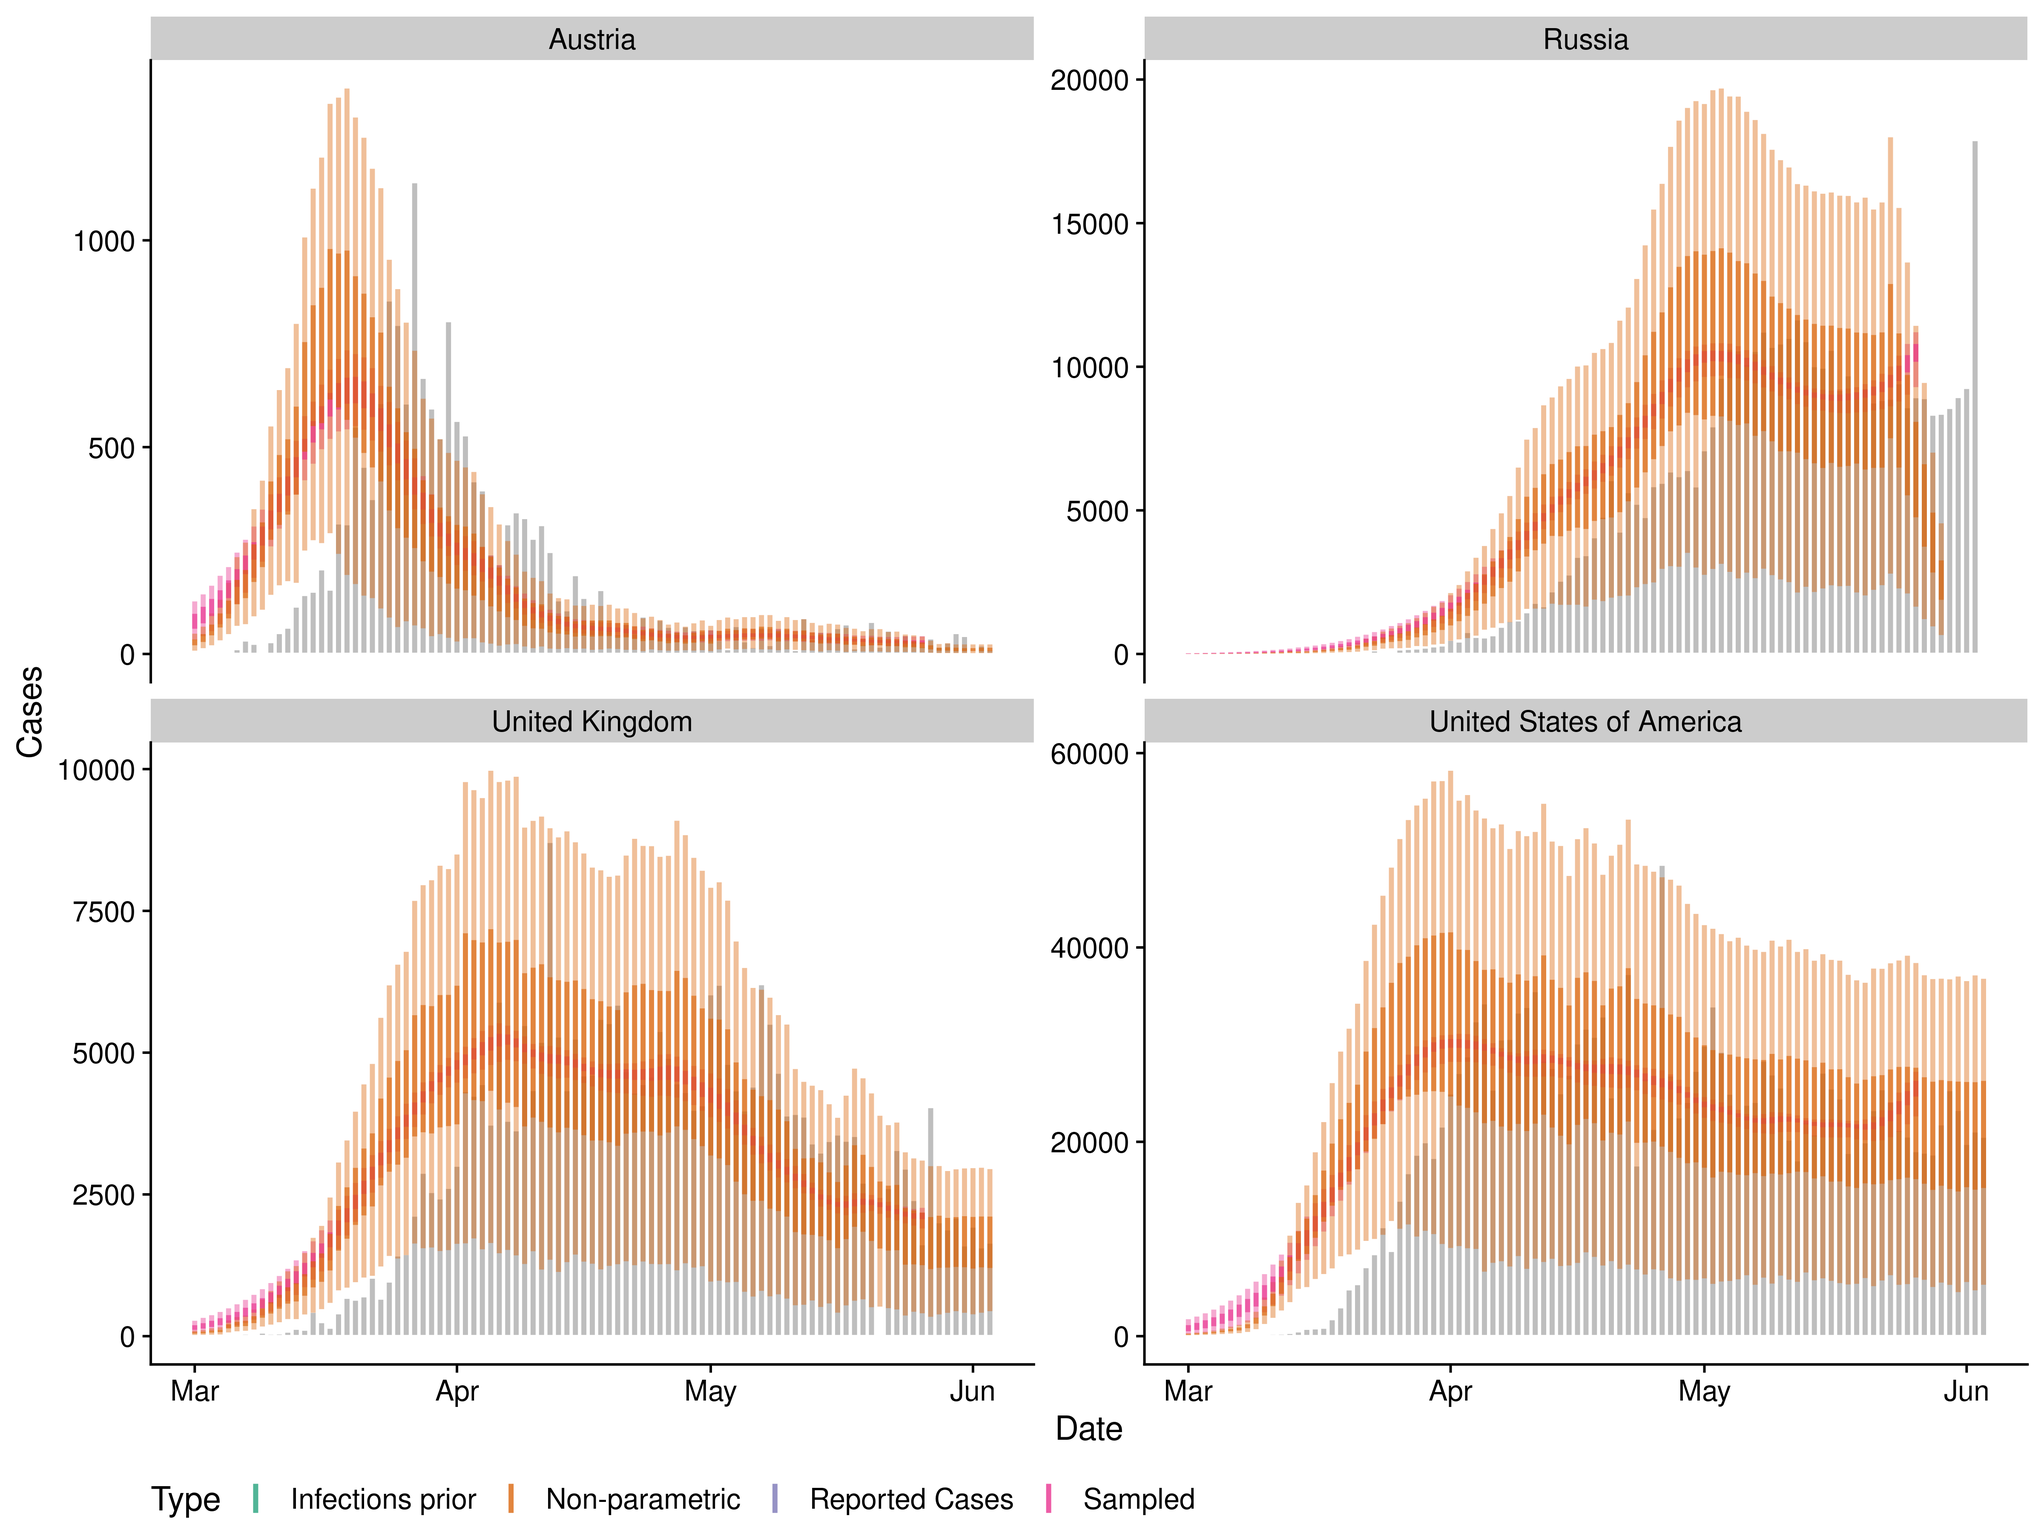
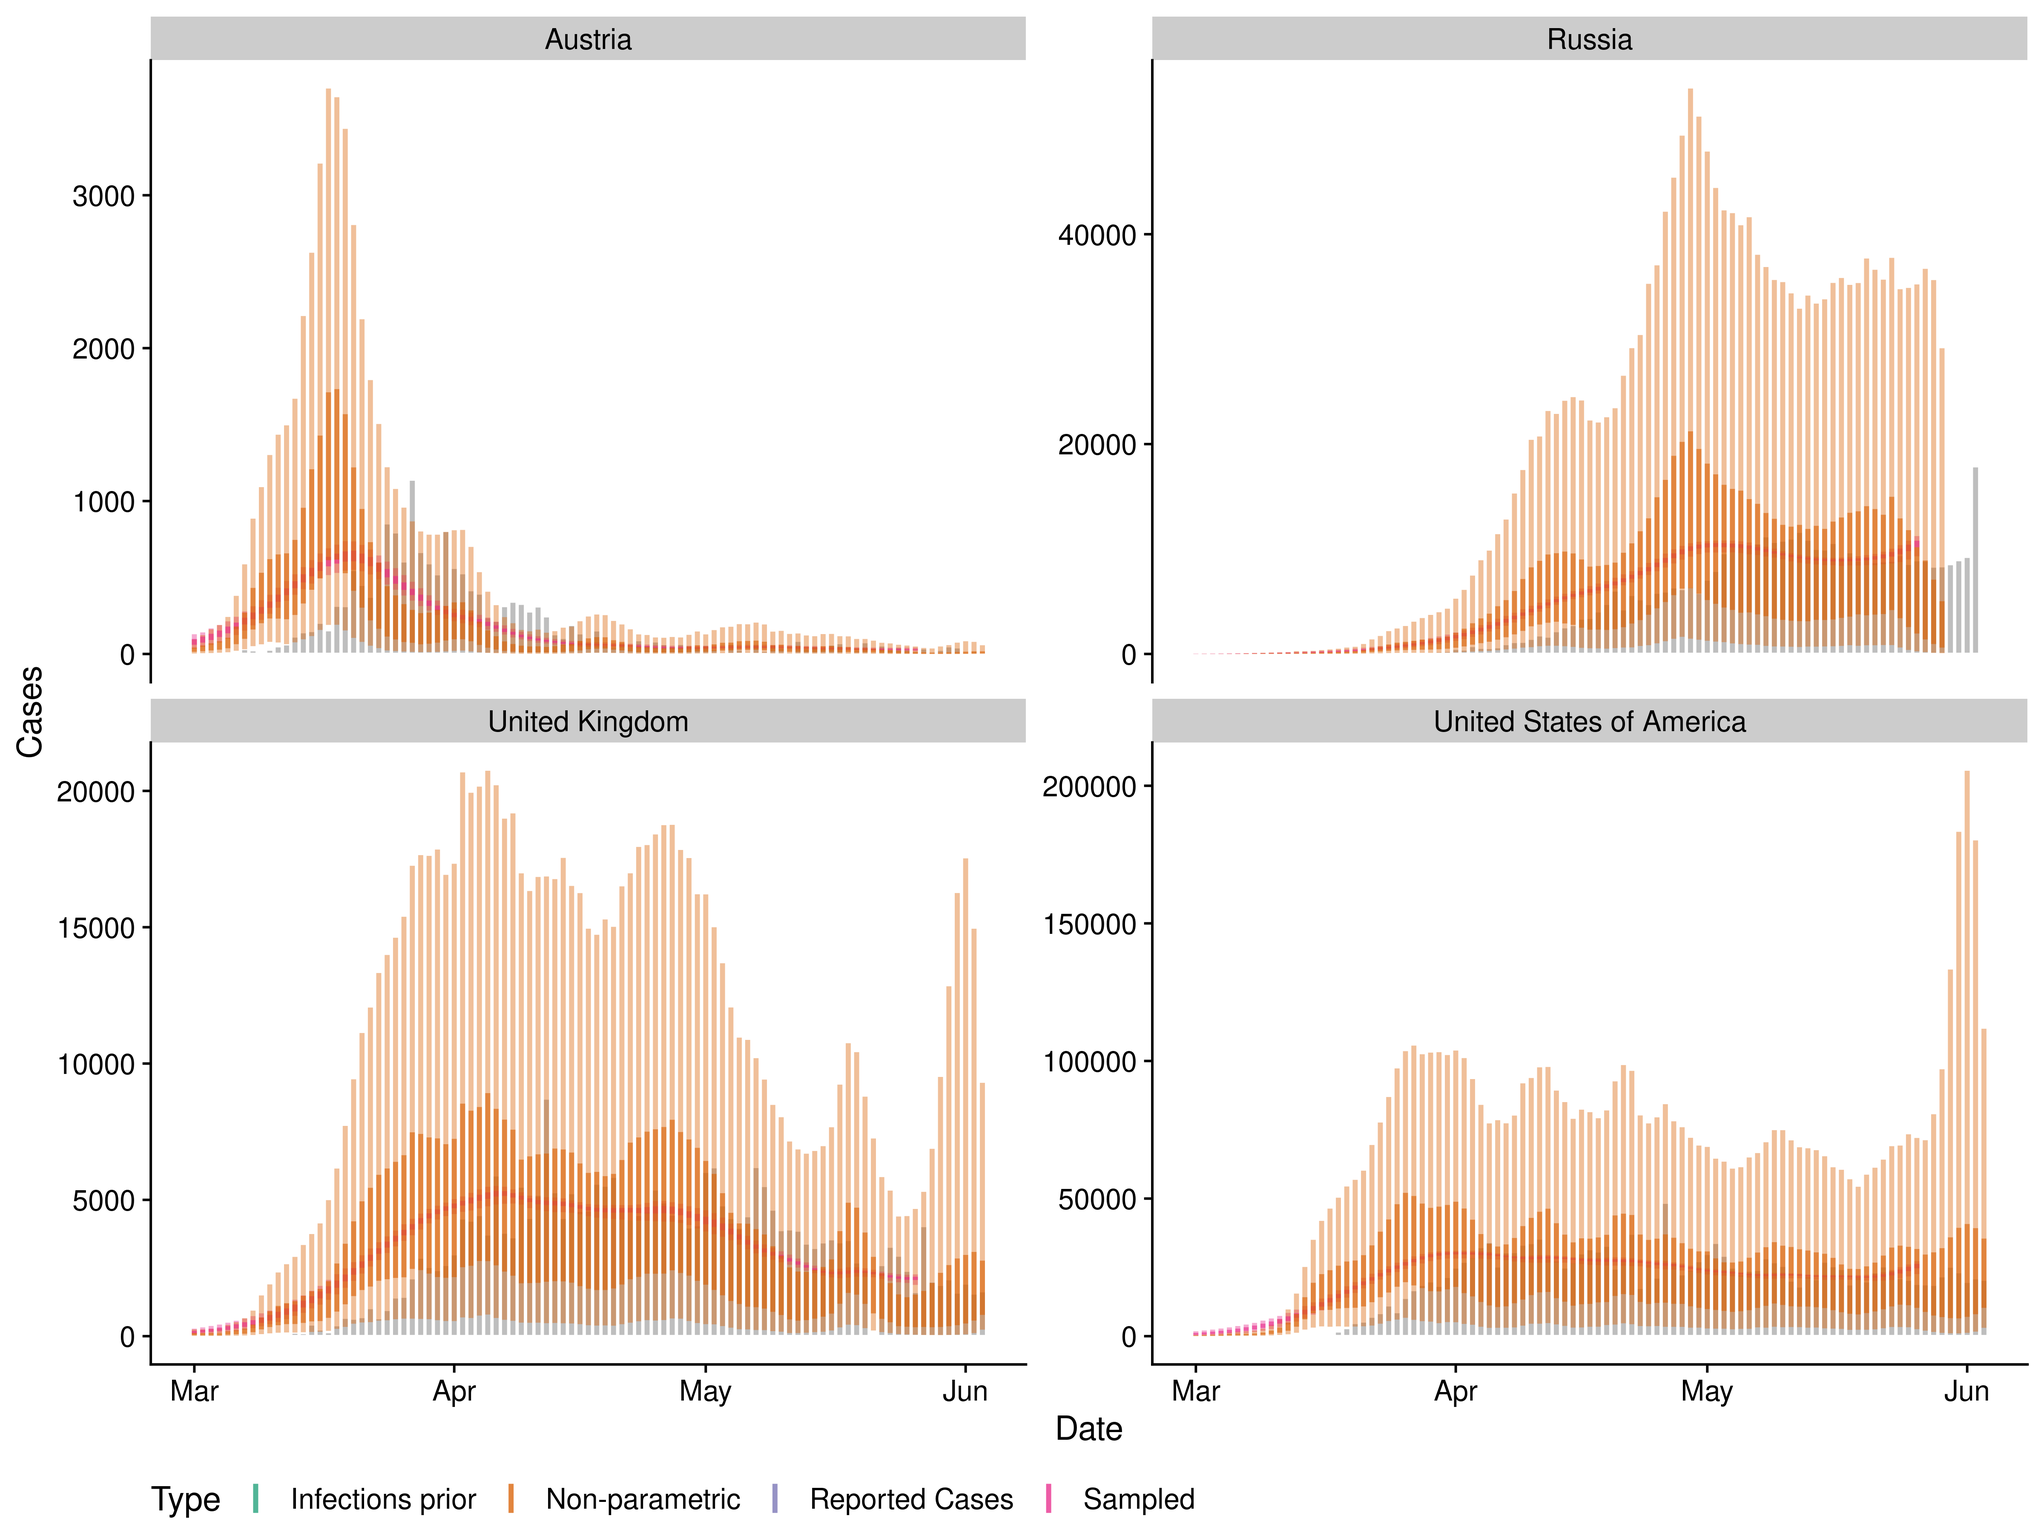
convolution tweaks and random walk on mean noise + lognormal

diff --git a/report.md b/report.md
@@ -69,11 +69,10 @@ model
 #>   vector convolve(vector cases, vector pdf, int direction) {
 #>     int t = num_elements(cases);
 #>     matrix[t, t] delay_mat = rep_matrix(0, t, t);
-#>     int max_pdf = num_elements(pdf) + 1;
-#>     row_vector[max_pdf] row_pdf = direction ? to_row_vector(append_row(pdf, 0.0)) :
-#>                                               to_row_vector(append_row(0.0, pdf)) ;
+#>     int max_pdf = num_elements(pdf);
+#>     row_vector[max_pdf] row_pdf = to_row_vector(pdf);
 #>     vector[t] convolved_cases;
-#>     
+#> 
 #>     for (s in 1:t) {
 #>       if (direction) {
 #>         int max_length = min(s, max_pdf);
@@ -83,7 +82,7 @@ model
 #>         delay_mat[s, s:(s + max_length)] = row_pdf[1:(max_length + 1)];
 #>       }
 #>     }
-#>   
+#>     
 #>    convolved_cases = delay_mat * to_vector(cases);
 #>   
 #>    // initialise all entries as non-zero 
@@ -169,7 +168,7 @@ model
 #> }
 #> parameters{
 #>   vector<lower = 0>[t] noise;                      // noise on the mean shifted observed cases
-#>   simplex[7] day_of_week_eff_raw;                   // day of week reporting effect + control parameters
+#>   simplex[7] day_of_week_eff_raw;                  // day of week reporting effect + control parameters
 #>   real <lower = 0> inc_mean;                       // mean of incubation period
 #>   real <lower = 0> inc_sd;                         // sd of incubation period
 #>   real <lower = 0> rep_mean;                       // mean of reporting delay
@@ -178,6 +177,7 @@ model
 #>   vector<lower = 0>[estimate_r > 0 ? t : 0] R;     // effective reproduction number over time
 #>   real<lower = 0> gt_mean[estimate_r];             // mean of generation time
 #>   real <lower = 0> gt_sd[estimate_r];              // sd of generation time
+#>   real<lower = 0> inf_phi[estimate_r];             // overdispersion of the infection process
 #> }
 #> 
 #> transformed parameters {
@@ -190,6 +190,8 @@ model
 #>   vector[estimate_r > 0 ? max_gt : 0] rev_generation_time;// reversed generation time pdf
 #>   vector[estimate_r > 0 ? t : 0] infectiousness;          // infections over time
 #>   vector[estimate_r > 0 ? t : 0] branch_infections;       // infections generated by the branching process
+#>   vector[estimate_r > 0 ? t : 0] branch_onsets;           // onsets generated by the branching process
+#>   vector[estimate_r > 0 ? t : 0] branch_reports;          // reports generated by the branching process
 #> 
 #>   // reverse the distributions to allow vectorised access
 #>   for (j in 1:max_inc) {
@@ -202,10 +204,10 @@ model
 #>         discretised_lognormal_pmf(max_rep - j + 1, rep_mean, rep_sd);
 #>   }
 #>     
-#>   // // define day of the week effect
+#>   // define day of the week effect
 #>   day_of_week_eff = 7 * day_of_week_eff_raw;
 #> 
-#>   // generate infections from backcalculated and non-parameteric noise (squared)
+#>   // generate infections from backcalculated and non-parameteric noise
 #>   for (s in 1:t) {
 #>     infections[s] = shifted_cases[s] * noise[s];
 #>   }
@@ -230,11 +232,23 @@ model
 #>        rev_generation_time[j] =
 #>            discretised_gamma_pmf(max_gt - j + 1, gt_mean[estimate_r], gt_sd[estimate_r]);
 #>      }
+#>      
 #>      // infectiousness from infections
 #>      infectiousness = convolve(infections, rev_generation_time, 1);
 #>   
 #>      // Estimate infections using branching process
 #>      branch_infections = R .* infectiousness;
+#>      
+#>      // onsets from infections
+#>      branch_onsets = convolve(branch_infections, rev_incubation, 1);
+#>   
+#>      // reports from onsets
+#>      branch_reports = convolve(branch_onsets, rev_delay, 1);
+#>   
+#>      for (s in 1:t) {
+#>       // add reporting effects (adjust for simplex scale)
+#>       branch_reports[s] *= day_of_week_eff[day_of_week[s]];
+#>     }
 #>   }
 #> }
 #> 
@@ -243,8 +257,10 @@ model
 #>   rep_phi ~ exponential(1);
 #> 
 #>   // noise on median shift
-#>   for (i in 1:t) {
-#>     noise[i] ~ normal(1,0.4) T[0,];
+#>   noise[t] ~ lognormal(log(1), 1);
+#>   
+#>   for (i in 1:(t - 1)) {
+#>     noise[t - i] ~ lognormal(log(noise[t - i + 1]), 1);
 #>   }
 #> 
 #>   // daily cases given reports
@@ -265,10 +281,13 @@ model
 #>   //////////////////////////////////////////////////////
 #>   if (estimate_r) {
 #>     
+#>     // infection overdispersion
+#>     inf_phi ~ exponential(1);
+#>      
 #>     // initial prior on R
 #>     R[1] ~ gamma(r_alpha, r_beta);
 #>     
-#>    for (s in 1:t) {
+#>    for (s in 2:t) {
 #>      {
 #>        // rescale previous R and overall sd prior for gamma
 #>        real r_mean_ = R[s - 1];
@@ -286,7 +305,11 @@ model
 #>     target += normal_lpdf(gt_sd | gt_sd_mean, gt_sd_sd) * t;
 #>   
 #>     // Likelihood of Rt given infections
-#>     target += normal_lpdf(infections | branch_infections, 0.1);
+#>     if (model_type == 1) {
+#>       target += poisson_lpmf(cases | branch_reports);
+#>     }else{
+#>       target += neg_binomial_2_lpmf(cases | branch_reports, inf_phi[estimate_r]);
+#>     }
 #>   }
 #> }
 #>   
@@ -383,22 +406,22 @@ incubation_defs <- EpiNow::lognorm_dist_def(mean = incubation_period$mean,
 ## using a single sample of both distributions                                    
 simulated_cases <- EpiNow::simulate_cases(rts, initial_cases = 10 , initial_date = as.Date("2020-03-01"),
                                           generation_interval = generation_time_pdf,
-                                          delay_def = delay_defs[1, ],
-                                          incubation_def = incubation_defs[1, ],
-                                          reporting_effect = c(1.2, 1, 1, 1, 1.4, 0.6, 0.8))
+                                          delay_def = delay_defs[10, ],
+                                          incubation_def = incubation_defs[10, ],
+                                          reporting_effect = c(1.6, 1, 1, 1, 0.8, 0.4, 1))
 simulated_cases
 #>            date cases reference
-#>   1: 2020-03-02     2 infection
-#>   2: 2020-03-03     7 infection
-#>   3: 2020-03-04     8 infection
-#>   4: 2020-03-05    11 infection
-#>   5: 2020-03-06    14 infection
+#>   1: 2020-03-02     4 infection
+#>   2: 2020-03-03     6 infection
+#>   3: 2020-03-04    11 infection
+#>   4: 2020-03-05    10 infection
+#>   5: 2020-03-06    13 infection
 #>  ---                           
-#> 261: 2020-05-27   276    report
-#> 262: 2020-05-28   300    report
-#> 263: 2020-05-29   436    report
-#> 264: 2020-05-30   199    report
-#> 265: 2020-05-31   288    report
+#> 264: 2020-05-27   179    report
+#> 265: 2020-05-28   201    report
+#> 266: 2020-05-29   156    report
+#> 267: 2020-05-30    73    report
+#> 268: 2020-05-31   188    report
 ```
 
 ### Compare approaches on simulated data
@@ -419,7 +442,8 @@ sampling_cases <- nowcast_pipeline(reported_cases = simulated_reports[, import_s
 
 ## Non-parameteric reconstruction
 non_parametric_cases <- nowcast(simulated_reports,
-                                family = "negbin", incubation_period = incubation_period,
+                                family = "negbin",
+                                incubation_period = incubation_period,
                                 reporting_delay = reporting_delay,
                                 generation_time = generation_time, 
                                 estimate_rt = FALSE,
@@ -428,7 +452,7 @@ non_parametric_cases <- nowcast(simulated_reports,
                                 samples = 1000, warmup = 1000,
                                 return_all = TRUE, model = model,
                                 verbose = TRUE)
-#> Running for 2000 samples and 95 time steps
+#> Running for 2000 samples and 97 time steps
 #> Warning: The largest R-hat is NA, indicating chains have not mixed.
 #> Running the chains for more iterations may help. See
 #> http://mc-stan.org/misc/warnings.html#r-hat
@@ -539,14 +563,14 @@ names(results) <- countries
 
 ``` r
 non_parametric_cases$day_of_week[, as.list(summary(value)), by = "wday"]
-#>         wday      Min.   1st Qu.    Median      Mean   3rd Qu.      Max.
-#> 1:    Monday 0.8878181 1.0881780 1.1482273 1.1483056 1.2049957 1.5091839
-#> 2:   Tuesday 0.7448627 0.9331464 0.9851677 0.9875251 1.0382382 1.2771137
-#> 3: Wednesday 0.6768224 0.9321160 0.9826572 0.9877604 1.0361162 1.4740124
-#> 4:  Thursday 0.7340704 0.9617016 1.0125248 1.0154929 1.0667894 1.3870990
-#> 5:    Friday 1.1017389 1.3373791 1.3982082 1.4034671 1.4669598 1.8252710
-#> 6:  Saturday 0.4391643 0.5688920 0.6051470 0.6078214 0.6425255 0.8587475
-#> 7:    Sunday 0.6215003 0.8008710 0.8454130 0.8496275 0.8929292 1.1499083
+#>         wday      Min.   1st Qu.    Median      Mean   3rd Qu.     Max.
+#> 1:    Monday 1.3611266 1.5828189 1.6481956 1.6514290 1.7151463 2.008016
+#> 2:   Tuesday 0.7692103 0.9421065 0.9850502 0.9881888 1.0312445 1.239239
+#> 3: Wednesday 0.7854300 0.9700624 1.0133629 1.0155557 1.0592404 1.284317
+#> 4:  Thursday 0.8344116 1.0086970 1.0544708 1.0573071 1.1035836 1.373536
+#> 5:    Friday 0.6858205 0.8236653 0.8620007 0.8650337 0.9027402 1.091058
+#> 6:  Saturday 0.3028307 0.3862716 0.4073741 0.4084839 0.4282811 0.547727
+#> 7:    Sunday 0.7897653 0.9690890 1.0113243 1.0140019 1.0559600 1.270879
 ```
 
   - Recover reporting delays
@@ -559,8 +583,8 @@ data.table::rbindlist(list(
   non_parametric_cases$rep_sd[, .(parameter = "sd", mean = mean(value), sd = sd(value))]
 ))
 #>    parameter      mean          sd
-#> 1:      mean 1.5985794 0.009827727
-#> 2:        sd 0.6911626 0.019119408
+#> 1:      mean 1.6103262 0.009755369
+#> 2:        sd 0.6963983 0.018674345
 ```
 
   - Recover incubation period
@@ -573,8 +597,8 @@ data.table::rbindlist(list(
   non_parametric_cases$inc_sd[, .(parameter = "sd", mean = mean(value), sd = sd(value))]
 ))
 #>    parameter      mean          sd
-#> 1:      mean 1.6155428 0.006348679
-#> 2:        sd 0.4177322 0.006951869
+#> 1:      mean 1.6213169 0.006722779
+#> 2:        sd 0.4185493 0.006798494
 ```
 
   - Prepare data for
@@ -649,7 +673,7 @@ plot <- ggplot2::ggplot(plot_sims_data, ggplot2::aes(x = date, col = type, fill 
                          ggplot2::aes(ymin = lower, ymax = upper), 
                          alpha = 0.4, size = 1.5) +
  ggplot2::geom_line(data = plot_sims_data[type %in% c("Simulated infections", "Infections prior")],
-                     ggplot2::aes(y = median), size = 1.1, alpha = 0.6) +
+                    ggplot2::aes(y = median), size = 1.1, alpha = 0.6) +
  ggplot2::geom_point(data = plot_sims_data[type %in%  c("Simulated infections", "Infections prior")],
                      ggplot2::aes(y = median), size = 1.1, alpha = 0.8, show.legend = FALSE) +
   cowplot::theme_cowplot() +
@@ -672,44 +696,44 @@ country
 ``` r
 purrr::map(results, ~ .[[2]]$day_of_week[, as.list(summary(value)), by = "wday"])
 #> $Austria
-#>         wday      Min.   1st Qu.    Median      Mean   3rd Qu.     Max.
-#> 1:    Monday 0.4284661 0.6529719 0.7159222 0.7261881 0.7897836 1.295645
-#> 2:   Tuesday 0.5806931 0.8536065 0.9380247 0.9467525 1.0291716 1.560520
-#> 3: Wednesday 0.5959853 0.9389579 1.0292019 1.0379712 1.1251743 1.675936
-#> 4:  Thursday 0.5235458 0.8357821 0.9194224 0.9290011 1.0115680 1.545943
-#> 5:    Friday 0.6223682 1.0243756 1.1239804 1.1341755 1.2334683 1.758318
-#> 6:  Saturday 0.7781395 1.1162384 1.2199967 1.2272923 1.3274708 1.947350
-#> 7:    Sunday 0.6112185 0.9050925 0.9884751 0.9986193 1.0796640 1.644025
+#>         wday      Min.   1st Qu.    Median      Mean  3rd Qu.     Max.
+#> 1:    Monday 0.4479195 0.6501631 0.7047460 0.7111869 0.764495 1.125352
+#> 2:   Tuesday 0.6496267 0.8880662 0.9594554 0.9662142 1.037062 1.581837
+#> 3: Wednesday 0.6563672 0.9575543 1.0298863 1.0384845 1.113256 1.573896
+#> 4:  Thursday 0.5900467 0.8966493 0.9663523 0.9726026 1.042284 1.464943
+#> 5:    Friday 0.7005769 0.9922427 1.0718010 1.0775333 1.155657 1.589267
+#> 6:  Saturday 0.8088714 1.1491704 1.2386389 1.2444255 1.332354 1.896453
+#> 7:    Sunday 0.6700643 0.9105259 0.9830931 0.9895530 1.061370 1.515645
 #> 
 #> $`United Kingdom`
 #>         wday      Min.   1st Qu.    Median      Mean   3rd Qu.     Max.
-#> 1:    Monday 0.7104095 0.9907593 1.0714899 1.0778077 1.1552377 1.609150
-#> 2:   Tuesday 0.5554246 0.7526488 0.8191070 0.8259988 0.8915195 1.330238
-#> 3: Wednesday 0.5790880 0.8263995 0.8943017 0.9008078 0.9687765 1.435230
-#> 4:  Thursday 0.5772997 0.9121810 0.9847622 0.9920699 1.0643911 1.677510
-#> 5:    Friday 0.6326261 0.9527352 1.0278892 1.0345958 1.1085909 1.587051
-#> 6:  Saturday 0.6724114 0.9559524 1.0356034 1.0409578 1.1175452 1.750690
-#> 7:    Sunday 0.7005298 1.0389039 1.1215167 1.1277622 1.2094650 1.654768
+#> 1:    Monday 0.6180815 0.9887802 1.0737482 1.0812896 1.1610585 1.654301
+#> 2:   Tuesday 0.5252084 0.7630979 0.8272216 0.8348367 0.8979974 1.360606
+#> 3: Wednesday 0.5894254 0.8406296 0.9088583 0.9157361 0.9832672 1.429158
+#> 4:  Thursday 0.5762916 0.8569402 0.9315246 0.9384186 1.0123839 1.519049
+#> 5:    Friday 0.6798035 0.9506584 1.0299956 1.0386831 1.1169718 1.755429
+#> 6:  Saturday 0.6530956 0.9773574 1.0556993 1.0641344 1.1414120 1.688887
+#> 7:    Sunday 0.7499531 1.0390920 1.1197400 1.1269014 1.2062809 1.713909
 #> 
 #> $`United States of America`
 #>         wday      Min.   1st Qu.    Median      Mean   3rd Qu.     Max.
-#> 1:    Monday 0.6491808 0.8688306 0.9216315 0.9250193 0.9772191 1.273691
-#> 2:   Tuesday 0.6996459 0.9211199 0.9754587 0.9792272 1.0315187 1.404020
-#> 3: Wednesday 0.6293525 0.8550193 0.9055623 0.9086874 0.9585014 1.280276
-#> 4:  Thursday 0.6556171 0.9000015 0.9540820 0.9581056 1.0114124 1.332069
-#> 5:    Friday 0.7256273 0.9791694 1.0376531 1.0395543 1.0967259 1.436115
-#> 6:  Saturday 0.8019138 1.1051387 1.1694265 1.1738990 1.2357300 1.671528
-#> 7:    Sunday 0.7231304 0.9570654 1.0127648 1.0155072 1.0726549 1.445917
+#> 1:    Monday 0.7109463 0.8713341 0.9100616 0.9125065 0.9522125 1.189307
+#> 2:   Tuesday 0.7405516 0.8976904 0.9377828 0.9415183 0.9815231 1.255100
+#> 3: Wednesday 0.7223999 0.8813824 0.9200326 0.9217103 0.9602983 1.272710
+#> 4:  Thursday 0.7396768 0.9057841 0.9478520 0.9505136 0.9918946 1.268436
+#> 5:    Friday 0.8171076 1.0146867 1.0586902 1.0610727 1.1060403 1.340387
+#> 6:  Saturday 0.9148789 1.0961941 1.1458759 1.1489657 1.1981775 1.421255
+#> 7:    Sunday 0.8042956 1.0172628 1.0616759 1.0637128 1.1083762 1.309462
 #> 
 #> $Russia
 #>         wday      Min.   1st Qu.    Median      Mean   3rd Qu.     Max.
-#> 1:    Monday 0.5617620 0.8790661 0.9680555 0.9768283 1.0648155 1.579208
-#> 2:   Tuesday 0.5747750 0.8629004 0.9511211 0.9593768 1.0447428 1.598673
-#> 3: Wednesday 0.4986343 0.7914631 0.8713606 0.8807950 0.9618412 1.506556
-#> 4:  Thursday 0.6346433 0.9580705 1.0538217 1.0641320 1.1591460 1.822484
-#> 5:    Friday 0.5707630 0.8966024 0.9883627 0.9980334 1.0910861 1.610966
-#> 6:  Saturday 0.6099317 1.0589886 1.1654691 1.1759047 1.2784644 1.929874
-#> 7:    Sunday 0.5107141 0.8495177 0.9358305 0.9449298 1.0311805 1.580457
+#> 1:    Monday 0.5258077 0.8597497 0.9640223 0.9777831 1.0791462 1.817290
+#> 2:   Tuesday 0.4612740 0.8689382 0.9743623 0.9897706 1.0968608 2.087428
+#> 3: Wednesday 0.3928461 0.7379692 0.8328416 0.8438708 0.9350971 1.578567
+#> 4:  Thursday 0.5056510 0.9295912 1.0395068 1.0578440 1.1703356 1.986782
+#> 5:    Friday 0.5133473 0.8674740 0.9697928 0.9824318 1.0807255 1.773888
+#> 6:  Saturday 0.6013941 1.0681961 1.1938826 1.2150979 1.3448280 2.246968
+#> 7:    Sunday 0.4535247 0.8226711 0.9207583 0.9332018 1.0296426 1.853351
 ```
 
   - Prepare data for
